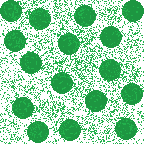
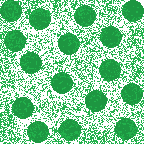
v0.0.3.0
- implemented basic AI
- fixed tcp transmission bugs
- added image (trees3.png)
- small image change (trees1.png)

diff --git a/network.cpp b/network.cpp
@@ -83,103 +83,109 @@ int Network::getDistance(QPoint p1, QPoint p2)
     return abs((int)sqrt(pow(p1.x()-p2.x(),2)+pow(p1.y()-p2.y(),2)));
 }
 
+bool Network::check(QStringList l, int anz)
+{
+    //spaeter
+}
+
 void Network::fetchTCP(QString data)
 {
     QStringList list = data.split("#");
     int m = list.at(0).toInt();
-    if(list.at(1)!=ownTank->getName()) {
-        //qDebug()<<list;
-        switch(m) {
-            case -3: //pos
-                {
+    if(list.size()>1) {
+        if(list.at(1)!=ownTank->getName()) {
+            switch(m) {
+                case -3: //pos
+                    {
+                        if(list.size()>3) {
+                            Tank *tmp = sucheTank(list.at(1));
+                            tmp->setAll(list.at(2).toInt(),list.at(3).toInt(),list.at(4).toInt());
+                        }
+                    }
+                break;
+                case -2: //bulletsync
                     if(list.size()>3) {
-                        Tank *tmp = sucheTank(list.at(1));
-                        tmp->setAll(list.at(2).toInt(),list.at(3).toInt(),list.at(4).toInt());
+                        emit syncBullet(list.at(1).toInt(),list.at(2).toInt(),list.at(3).toInt(),list.at(4).toInt());
                     }
-                }
-            break;
-            case -2: //bulletsync
-                if(list.size()>3) {
-                    emit syncBullet(list.at(1).toInt(),list.at(2).toInt(),list.at(3).toInt(),list.at(4).toInt());
-                }
-            break;
-            case -1: //viewRange
-                if(list.size()>0) {
-                    ownTank->setViewRange(list.at(1).toInt());
-                }
-            break;
-            case 0: //farbe setzen
-                if(list.size()>2) {
-                    ownTank->setColor(list.at(1).toInt());
-                    ownTank->teleport(list.at(2).toInt(),list.at(3).toInt());
-                    t_main->start(10);
-                }
-            break;
-            case 1: //spieler hinzufügen
-                {
+                break;
+                case -1: //viewRange
+                    if(list.size()>0) {
+                        ownTank->setViewRange(list.at(1).toInt());
+                    }
+                break;
+                case 0: //farbe setzen
                     if(list.size()>2) {
-                        Tank *t = new Tank(QRect(list.at(2).toInt(),list.at(3).toInt(),40,40),list.at(1));
-                        t->setColor(list.at(5).toInt());
-                        t->teleport(list.at(2).toInt(),list.at(3).toInt());
-                        players.append(t);
-                        emit newPlayer(t);
-                        emit message(list.at(1)+" joined",5);
+                        ownTank->setColor(list.at(1).toInt());
+                        ownTank->teleport(list.at(2).toInt(),list.at(3).toInt());
+                        t_main->start(10);
                     }
-                }
-            break;
-            case 2: //spieler entfernen
-                {
-                    if(list.size()>0) {
-                        Tank *t = sucheTank(list.at(1));
-                        int pos = getArrayPos(t->getName());
-                        delete t;
-                        players.removeAt(pos);
-                        emit delPlayer(pos);
+                break;
+                case 1: //spieler hinzufügen
+                    {
+                        if(list.size()>2) {
+                            Tank *t = new Tank(QRect(list.at(2).toInt(),list.at(3).toInt(),40,40),list.at(1));
+                            t->setColor(list.at(5).toInt());
+                            t->teleport(list.at(2).toInt(),list.at(3).toInt());
+                            players.append(t);
+                            emit newPlayer(t);
+                            emit message(list.at(1)+" joined",5);
+                        }
                     }
-                }
-            break;
-            case 3: //lvlobj
-                {
-                    if(list.size()>4) {
-                        emit newlvlObj(list.at(1).toInt(),list.at(2).toInt(),list.at(3).toInt(),list.at(4).toInt(),list.at(5).toInt());
+                break;
+                case 2: //spieler entfernen
+                    {
+                        if(list.size()>0) {
+                            Tank *t = sucheTank(list.at(1));
+                            int pos = getArrayPos(t->getName());
+                            delete t;
+                            players.removeAt(pos);
+                            emit delPlayer(pos);
+                        }
                     }
-                }
-            break;
-            case 4: //add bullet
-                {
-                    if(list.size()>5) {
-                        Bullet *b = new Bullet(list.at(1).toInt(),list.at(2).toInt(),list.at(3).toDouble(),list.at(4).toDouble(),list.at(5).toInt(),list.at(6));
-                        emit newBullet(b);
+                break;
+                case 3: //lvlobj
+                    {
+                        if(list.size()>4) {
+                            emit newlvlObj(list.at(1).toInt(),list.at(2).toInt(),list.at(3).toInt(),list.at(4).toInt(),list.at(5).toInt());
+                        }
                     }
-                }
-            break;
-            case 5: //del bullet
-                {
-                    if(list.size()>0) {
-                        emit delBullet(list.at(1).toInt());
+                break;
+                case 4: //add bullet
+                    {
+                        if(list.size()>5) {
+                            Bullet *b = new Bullet(list.at(1).toInt(),list.at(2).toInt(),list.at(3).toDouble(),list.at(4).toDouble(),list.at(5).toInt(),list.at(6));
+                            emit newBullet(b);
+                        }
                     }
-                }
-            break;
-            case 6: //del all objs
-                {
-                    emit delObjs();
-                }
-            break;
-            case 7: //ownplayerdeath
-                if(list.size()>2) {
-                    ownTank->teleport(list.at(2).toInt(),list.at(3).toInt());
-                    emit playerDeath();
-                }
-            break;
-            case 8: //otherdeath
-                if(list.size()>2) {
-                    Tank *tmp = sucheTank(list.at(1));
-                    tmp->teleport(list.at(2).toInt(),list.at(3).toInt());
-                }
-            break;
-            case 9: //message
-                emit message(list.at(1),list.at(2).toInt());
-            break;
+                break;
+                case 5: //del bullet
+                    {
+                        if(list.size()>0) {
+                            emit delBullet(list.at(1).toInt());
+                        }
+                    }
+                break;
+                case 6: //del all objs
+                    {
+                        emit delObjs();
+                    }
+                break;
+                case 7: //ownplayerdeath
+                    if(list.size()>2) {
+                        ownTank->teleport(list.at(2).toInt(),list.at(3).toInt());
+                        emit playerDeath();
+                    }
+                break;
+                case 8: //otherdeath
+                    if(list.size()>2) {
+                        Tank *tmp = sucheTank(list.at(1));
+                        tmp->teleport(list.at(2).toInt(),list.at(3).toInt());
+                    }
+                break;
+                case 9: //message
+                    emit message(list.at(1),list.at(2).toInt());
+                break;
+            }
         }
     }
 }

diff --git a/terrain.cpp b/terrain.cpp
@@ -13,11 +13,11 @@ Terrain::Terrain(int x, int y, int w, int h, int type)
     this->h = h;
     this->type = type;
     if(type==0) {
-        int a = qrand() % 3;
+        int a = qrand() % 3 + 1;
         if(!a) {
             this->p = QPixmap(":/images/area/trees2.png");
         } else {
-            this->p = QPixmap(":/images/area/trees1.png");
+            this->p = QPixmap(":/images/area/trees"+QString::number(a,'f',0)+".png");
         }
     }
 }

diff --git a/network.h b/network.h
@@ -27,6 +27,7 @@ private:
     int getArrayPos(QString name);
     void fetchUDP(QString data);
     void fetchTCP(QString data);
+    bool check(QStringList l,int anz);
     quint16 udpPort;
 public:
     explicit Network(Tank *ownTank, QVector<Tank*> t, QHostAddress ip, QObject *parent = 0);
